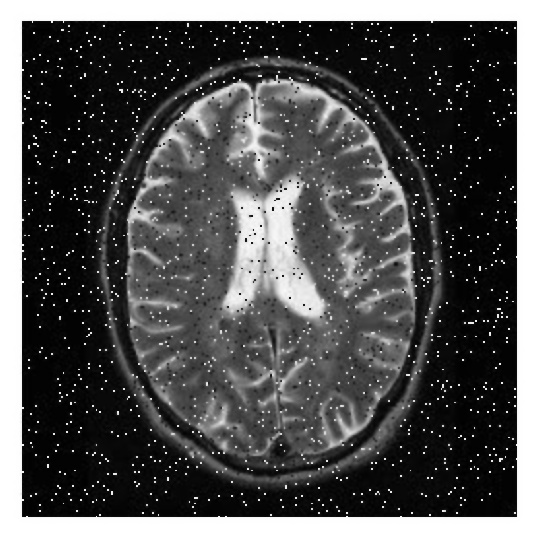
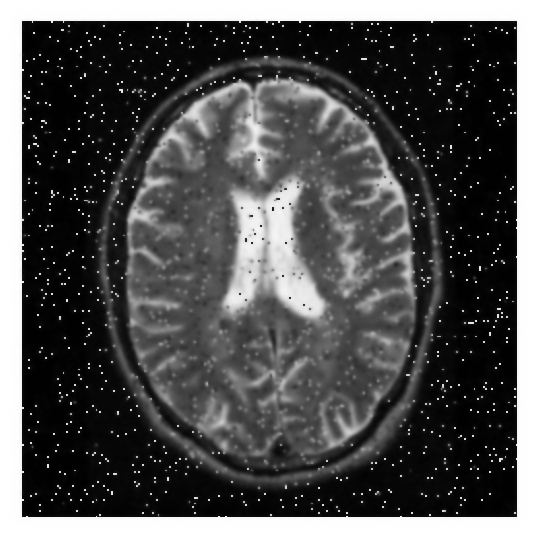
Partametros configurados para que muestre los 3 tipos de imagenes correctamente time step es clave .

diff --git a/P2_C/task4/src/task4.cpp b/P2_C/task4/src/task4.cpp
@@ -11,107 +11,123 @@
 #include <sstream>
 #include <string>
 
-int main(int argc, char * argv[])
+int main(int argc, char ** argv)
 {
   if(argc < 2)
   {
-    std::cerr << "Usage:\n" << argv[0] << " inputImageFile" << std::endl;
+    std::cerr << "Usage: " << std::endl;
+    std::cerr << argv[0] << " inputImageFile" << std::endl;
     return EXIT_FAILURE;
   }
-  
-  // Extraer la base y extensión del archivo de entrada
+
+  // Extraer base y extensión del archivo de entrada
   std::string inputFilename(argv[1]);
   size_t lastSlash = inputFilename.find_last_of("/\\");
   std::string filename = (lastSlash == std::string::npos) ? inputFilename : inputFilename.substr(lastSlash + 1);
   size_t lastDot = filename.find_last_of(".");
   std::string baseName = (lastDot == std::string::npos) ? filename : filename.substr(0, lastDot);
   std::string ext = (lastDot == std::string::npos) ? ".jpg" : filename.substr(lastDot);
-  
+
   // Directorio de salida
   std::string outputDir = "../../../images/images_generated/";
-  
-  // Tipos de imagen:
-  // - Imagen interna (para procesamiento): float.
-  // - Imagen de escritura: unsigned char (para guardar en JPEG).
-  typedef float                                  InternalPixelType;
+
+  // Definir tipos de imagen:
+  // - Para procesamiento: float
+  // - Para guardar: unsigned char (JPEG)
+  typedef float                                  PixelType;
   const unsigned int                             Dimension = 2;
-  typedef itk::Image<InternalPixelType, Dimension> InternalImageType;
-  
+  typedef itk::Image<PixelType, Dimension>       InputImageType;
+  typedef itk::Image<PixelType, Dimension>       OutputImageType; // filtros generan float
+
   typedef unsigned char                          WritePixelType;
   typedef itk::Image<WritePixelType, Dimension>  WriteImageType;
-  
-  // Lector de imagen (en formato interno)
-  typedef itk::ImageFileReader<InternalImageType> ReaderType;
+
+  // Lector de imagen
+  typedef itk::ImageFileReader<InputImageType>   ReaderType;
   ReaderType::Pointer reader = ReaderType::New();
   reader->SetFileName(inputFilename);
   try {
     reader->Update();
   }
-  catch(itk::ExceptionObject & error) {
+  catch(itk::ExceptionObject & error)
+  {
     std::cerr << "Error leyendo la imagen: " << error << std::endl;
     return EXIT_FAILURE;
   }
-  
+
   // 1. Gradient Anisotropic Diffusion Filter (Perona-Malik)
-  typedef itk::GradientAnisotropicDiffusionImageFilter<InternalImageType, InternalImageType>
-    GradientAnisotropicDiffusionFilterType;
-  GradientAnisotropicDiffusionFilterType::Pointer gradientDiffusion =
-    GradientAnisotropicDiffusionFilterType::New();
-  gradientDiffusion->SetInput(reader->GetOutput());
-  gradientDiffusion->SetNumberOfIterations(5);
-  gradientDiffusion->SetTimeStep(0.01); // Valor ajustado para estabilidad
-  gradientDiffusion->SetConductanceParameter(3.0);
+  typedef itk::GradientAnisotropicDiffusionImageFilter<InputImageType, OutputImageType>
+    GradientAnisotropicFilterType;
+  GradientAnisotropicFilterType::Pointer gradientAnisotropicFilter = GradientAnisotropicFilterType::New();
+  gradientAnisotropicFilter->SetInput(reader->GetOutput());
+  const unsigned int gradientAnisotropicNumberOfIterations = 15;
+  const double gradientAnisotropicTimeStep = 0.01;
+  const double gradientAnistropicConductance = 3;
+  gradientAnisotropicFilter->SetNumberOfIterations(gradientAnisotropicNumberOfIterations);
+  gradientAnisotropicFilter->SetTimeStep(gradientAnisotropicTimeStep);
+  gradientAnisotropicFilter->SetConductanceParameter(gradientAnistropicConductance);
   try {
-    gradientDiffusion->Update();
+    gradientAnisotropicFilter->Update();
   }
-  catch(itk::ExceptionObject & error) {
+  catch(itk::ExceptionObject & error)
+  {
     std::cerr << "Error en GradientAnisotropicDiffusionImageFilter: " << error << std::endl;
     return EXIT_FAILURE;
   }
-  
+
   // 2. Curvature Anisotropic Diffusion Filter (MCDE)
-  typedef itk::CurvatureAnisotropicDiffusionImageFilter<InternalImageType, InternalImageType>
-    CurvatureAnisotropicDiffusionFilterType;
-  CurvatureAnisotropicDiffusionFilterType::Pointer curvatureDiffusion =
-    CurvatureAnisotropicDiffusionFilterType::New();
-  curvatureDiffusion->SetInput(reader->GetOutput());
-  curvatureDiffusion->SetNumberOfIterations(5);
-  curvatureDiffusion->SetTimeStep(0.01); // Valor ajustado para estabilidad
-  curvatureDiffusion->SetConductanceParameter(3.0);
+  typedef itk::CurvatureAnisotropicDiffusionImageFilter<InputImageType, OutputImageType>
+    CurvatureAnisotropicFilterType;
+  CurvatureAnisotropicFilterType::Pointer curvatureAnisotropicFilter = CurvatureAnisotropicFilterType::New();
+  curvatureAnisotropicFilter->SetInput(reader->GetOutput());
+  const unsigned int curvatureAnisotropicNumberOfIterations = 5;
+  const double curvatureAnisotropicTimeStep = 0.01;
+  const double curvatureAnisotropicConductance = 3;
+  const bool curvatureAnisotropicUseImageSpacing = true;
+  curvatureAnisotropicFilter->SetNumberOfIterations(curvatureAnisotropicNumberOfIterations);
+  curvatureAnisotropicFilter->SetTimeStep(curvatureAnisotropicTimeStep);
+  curvatureAnisotropicFilter->SetConductanceParameter(curvatureAnisotropicConductance);
+  if(curvatureAnisotropicUseImageSpacing)
+    curvatureAnisotropicFilter->UseImageSpacingOn();
+  else
+    curvatureAnisotropicFilter->UseImageSpacingOff();
   try {
-    curvatureDiffusion->Update();
+    curvatureAnisotropicFilter->Update();
   }
-  catch(itk::ExceptionObject & error) {
+  catch(itk::ExceptionObject & error)
+  {
     std::cerr << "Error en CurvatureAnisotropicDiffusionImageFilter: " << error << std::endl;
     return EXIT_FAILURE;
   }
-  
+
   // 3. Curvature Flow Filter
-  typedef itk::CurvatureFlowImageFilter<InternalImageType, InternalImageType> CurvatureFlowFilterType;
-  CurvatureFlowFilterType::Pointer curvatureFlow = CurvatureFlowFilterType::New();
-  curvatureFlow->SetInput(reader->GetOutput());
-  curvatureFlow->SetNumberOfIterations(10);
-  curvatureFlow->SetTimeStep(0.01); // Valor ajustado para estabilidad
+  typedef itk::CurvatureFlowImageFilter<InputImageType, OutputImageType> CurvatureFlowFilterType;
+  CurvatureFlowFilterType::Pointer curvatureFlowFilter = CurvatureFlowFilterType::New();
+  curvatureFlowFilter->SetInput(reader->GetOutput());
+  const unsigned int curvatureFlowNumberOfIterations = 3;
+  const double curvatureFlowTimeStep = 0.0025;
+  curvatureFlowFilter->SetNumberOfIterations(curvatureFlowNumberOfIterations);
+  curvatureFlowFilter->SetTimeStep(curvatureFlowTimeStep);
   try {
-    curvatureFlow->Update();
+    curvatureFlowFilter->Update();
   }
-  catch(itk::ExceptionObject & error) {
+  catch(itk::ExceptionObject & error)
+  {
     std::cerr << "Error en CurvatureFlowImageFilter: " << error << std::endl;
     return EXIT_FAILURE;
   }
-  
-  // Función lambda para convertir la imagen interna (float) a WriteImageType (unsigned char) y guardarla
-  typedef itk::RescaleIntensityImageFilter<InternalImageType, WriteImageType> RescaleFilterType;
+
+  // Función lambda para convertir (rescalar) una imagen float a unsigned char y escribirla
+  typedef itk::RescaleIntensityImageFilter<OutputImageType, WriteImageType> RescaleFilterType;
   typedef itk::ImageFileWriter<WriteImageType> WriterType;
-  
-  auto writeImage = [&](const std::string & suffix, InternalImageType::Pointer image)
+  auto writeImage = [&](const std::string & suffix, OutputImageType::Pointer image)
   {
     RescaleFilterType::Pointer rescaler = RescaleFilterType::New();
     rescaler->SetInput(image);
     rescaler->SetOutputMinimum(0);
     rescaler->SetOutputMaximum(255);
     rescaler->Update();
-    
+
     WriterType::Pointer writer = WriterType::New();
     std::ostringstream oss;
     oss << outputDir << baseName << "_" << suffix << ext;
@@ -121,20 +137,39 @@ int main(int argc, char * argv[])
       writer->Update();
       std::cout << "Guardado: " << oss.str() << std::endl;
     }
-    catch(itk::ExceptionObject & error) {
+    catch(itk::ExceptionObject & error)
+    {
       std::cerr << "Error escribiendo la imagen (" << oss.str() << "): " << error << std::endl;
     }
   };
-  
-  // Guardar la imagen original
-  writeImage("original", reader->GetOutput());
-  
-  // Guardar cada una de las salidas con sufijos que indican la técnica utilizada
-  writeImage("gradientAnisotropicDiffusion", gradientDiffusion->GetOutput());
-  writeImage("curvatureAnisotropicDiffusion", curvatureDiffusion->GetOutput());
-  writeImage("curvatureFlow", curvatureFlow->GetOutput());
-  
+
+  // Guardar la imagen original (convertida a unsigned char)
+  {
+    RescaleFilterType::Pointer rescaler = RescaleFilterType::New();
+    rescaler->SetInput(reader->GetOutput());
+    rescaler->SetOutputMinimum(0);
+    rescaler->SetOutputMaximum(255);
+    rescaler->Update();
+    WriterType::Pointer writer = WriterType::New();
+    std::ostringstream oss;
+    oss << outputDir << baseName << "_original" << ext;
+    writer->SetFileName(oss.str());
+    writer->SetInput(rescaler->GetOutput());
+    try {
+      writer->Update();
+      std::cout << "Guardado: " << oss.str() << std::endl;
+    }
+    catch(itk::ExceptionObject & error)
+    {
+      std::cerr << "Error escribiendo la imagen (" << oss.str() << "): " << error << std::endl;
+    }
+  }
+
+  // Guardar cada salida con sufijo indicando la técnica
+  writeImage("gradientAnisotropicDiffusion", gradientAnisotropicFilter->GetOutput());
+  writeImage("curvatureAnisotropicDiffusion", curvatureAnisotropicFilter->GetOutput());
+  writeImage("curvatureFlow", curvatureFlowFilter->GetOutput());
+
   std::cout << "Imágenes guardadas en: " << outputDir << std::endl;
-  
   return EXIT_SUCCESS;
 }
